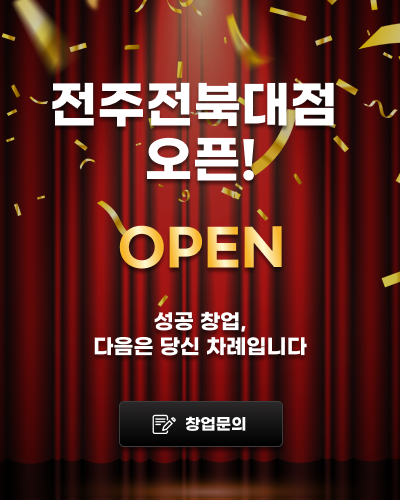
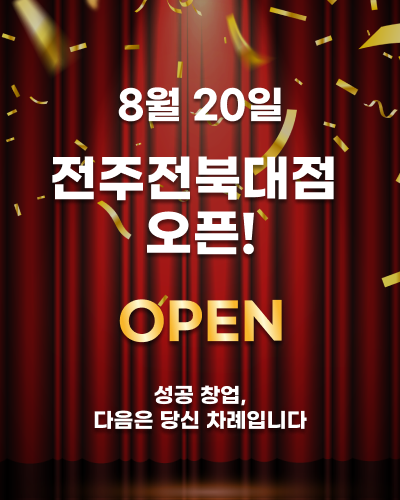
팝업 반응형

Changed region(s): [[0.12, 0.15, 0.84, 0.57], [0.24, 0.75, 0.78, 0.9], [0.21, 0.6, 0.78, 0.72]]

diff --git a/src/components/PopUp.module.scss b/src/components/PopUp.module.scss
@@ -6,8 +6,6 @@
   width: 100%;
   height: 100%;
   background-color: rgba($color: #000000, $alpha: 0.5);
-  // opacity: 0;
-  // visibility: hidden;
   display: flex;
   justify-content: center;
   align-items: center;
@@ -17,9 +15,12 @@
   }
 }
 .wrap {
+  width: 100%;
+  padding: 0 1rem;
   max-width: 80rem;
   display: flex;
-  gap: 1rem;
+  justify-content: center;
+  gap: clamp(0.4rem, 1vw, 1rem);
 }
 .popUp {
   border-radius: 0.5rem;
@@ -62,8 +63,45 @@
 }
 .txt {
   color: #666;
-  font-size: 0.938rem;
+  font-size: clamp(0.7rem, 1vw, 0.938rem);
   font-family: sans-serif;
   font-weight: 500;
   white-space: nowrap;
+}
+
+
+
+// 반응형
+@media (max-width: 768px) {
+  .wrap {
+    position: relative;
+    width: 70%;
+    height: 33.75rem;
+  }
+  .popUp {
+    position: absolute;
+    &.index0 {
+      top: 50%;
+      left: 50%;
+      transform: translate(-60%, -60%);
+    }
+    &.index1 {
+      top: 50%;
+      left: 50%;
+      transform: translate(-50%, -50%);
+    }
+    &.index2 {
+      top: 50%;
+      left: 50%;
+      transform: translate(-40%, -40%);
+    }
+  }
+}
+@media (max-width: 480px) {
+  .wrap {
+    width: 80%;
+  }
+  .popUp {
+    width: 90%;
+  }
 }

diff --git a/src/components/PopUp.js b/src/components/PopUp.js
@@ -56,10 +56,10 @@ function PopUp({ onClose }) {
   return (
     <div className={styles.container}>
       <div className={styles.wrap}>
-        {popups.map((popup) => (
+        {popups.map((popup, index) => (
           <div
             key={popup.id}
-            className={`${styles.popUp} ${!popup.visible ? styles.hidden : ""}`}
+            className={`${styles.popUp} ${styles[`index${index}`]} ${!popup.visible ? styles.hidden : ""}`}
           >
             <div className={styles.imgBox}>
               <img
